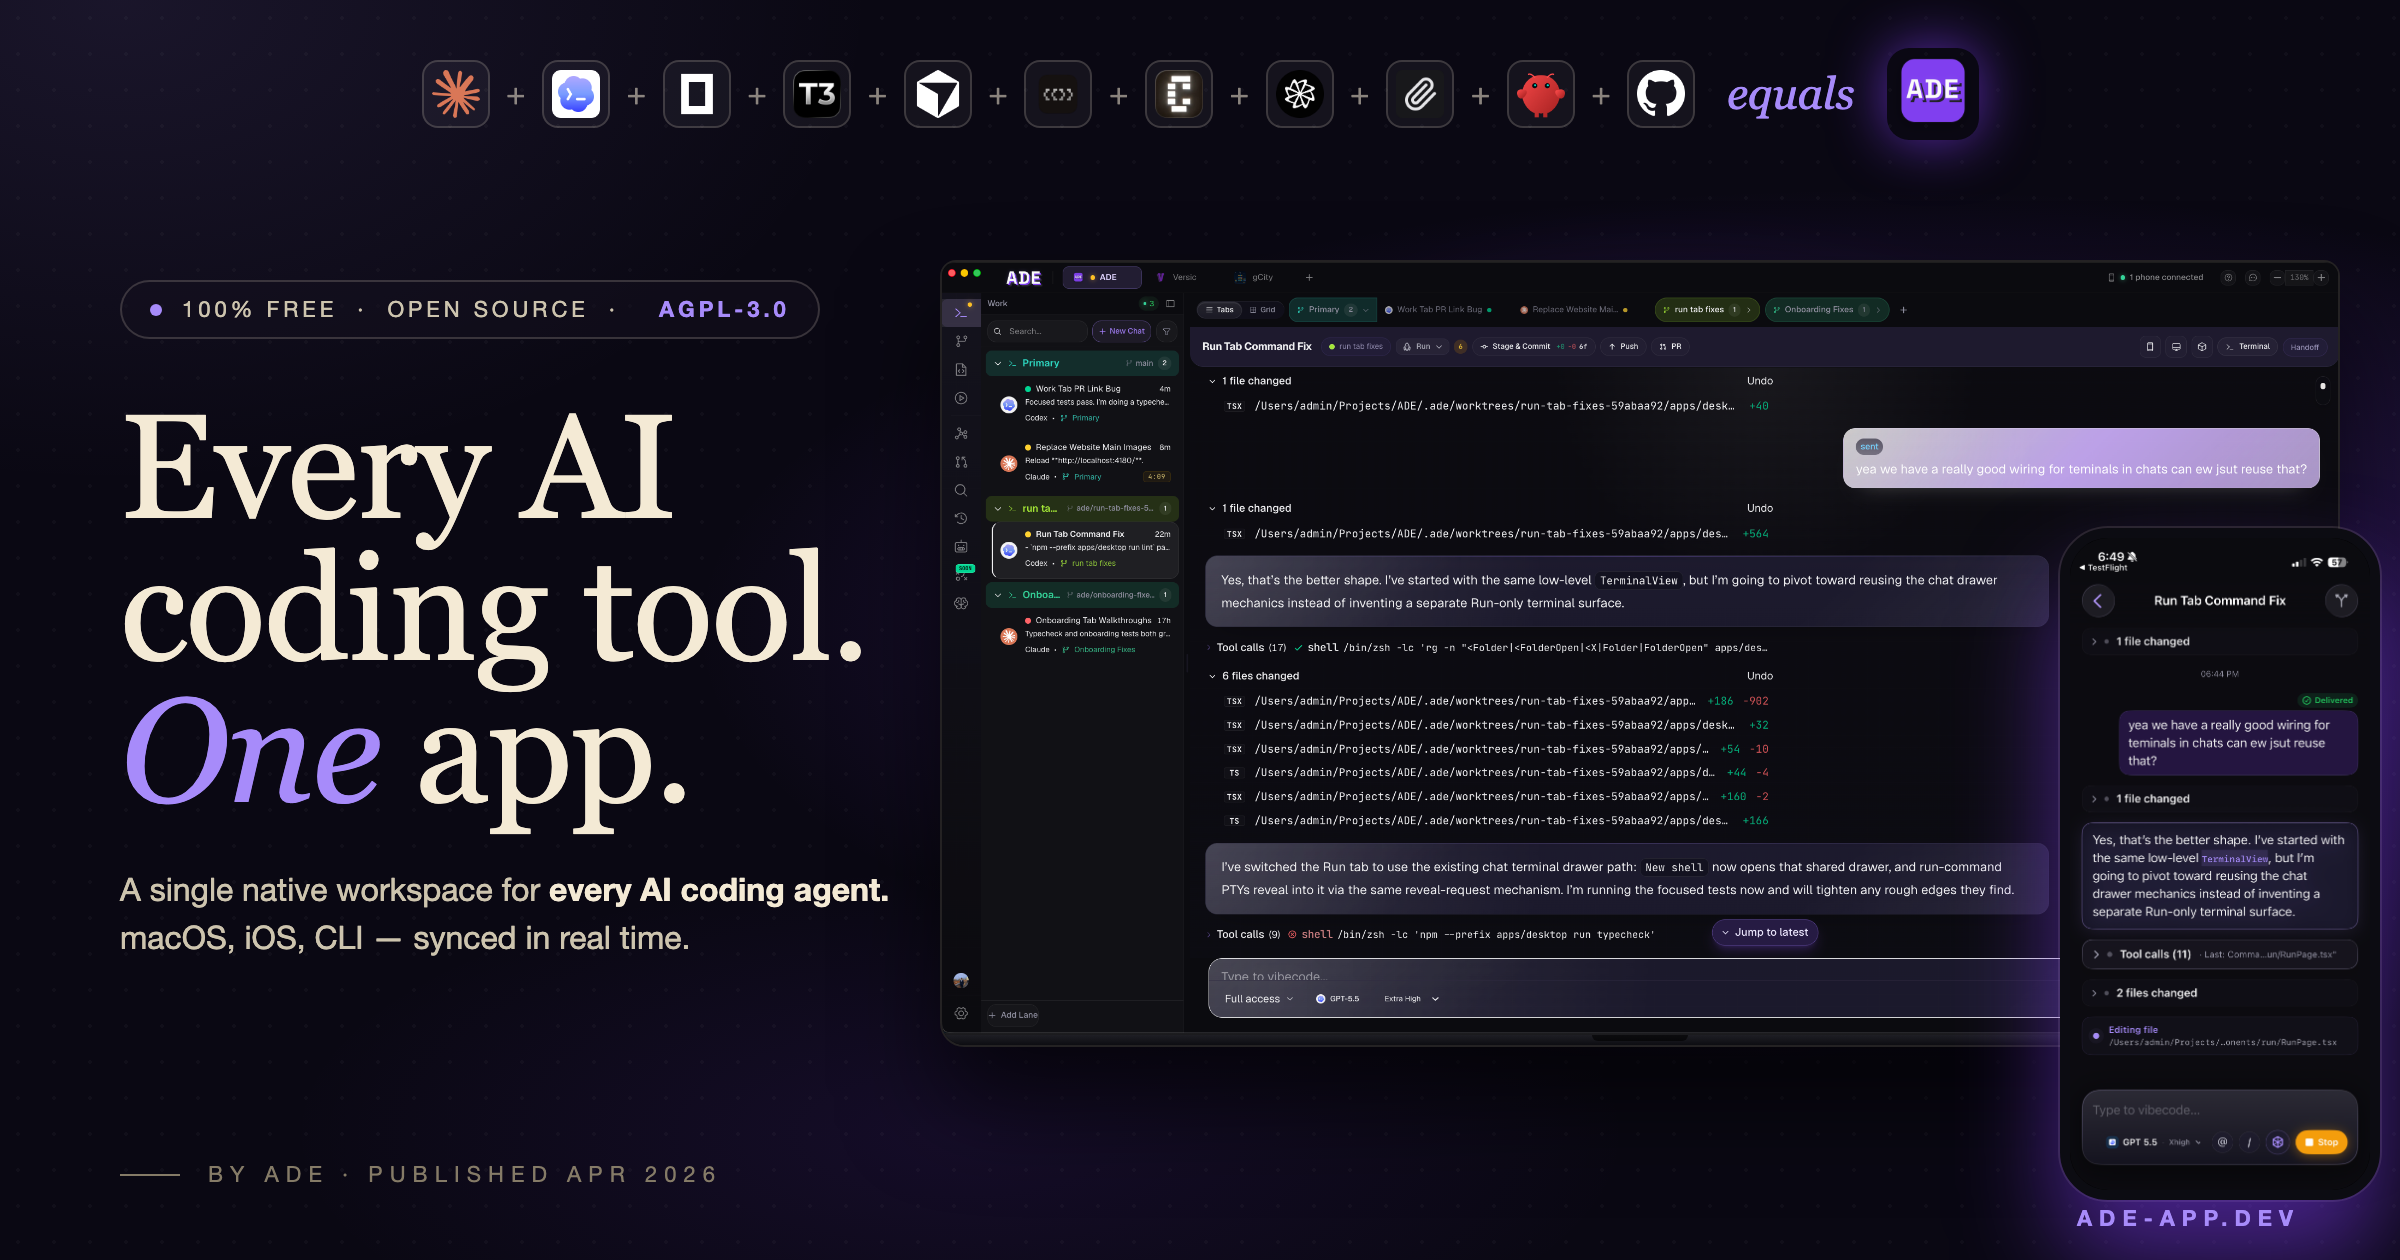
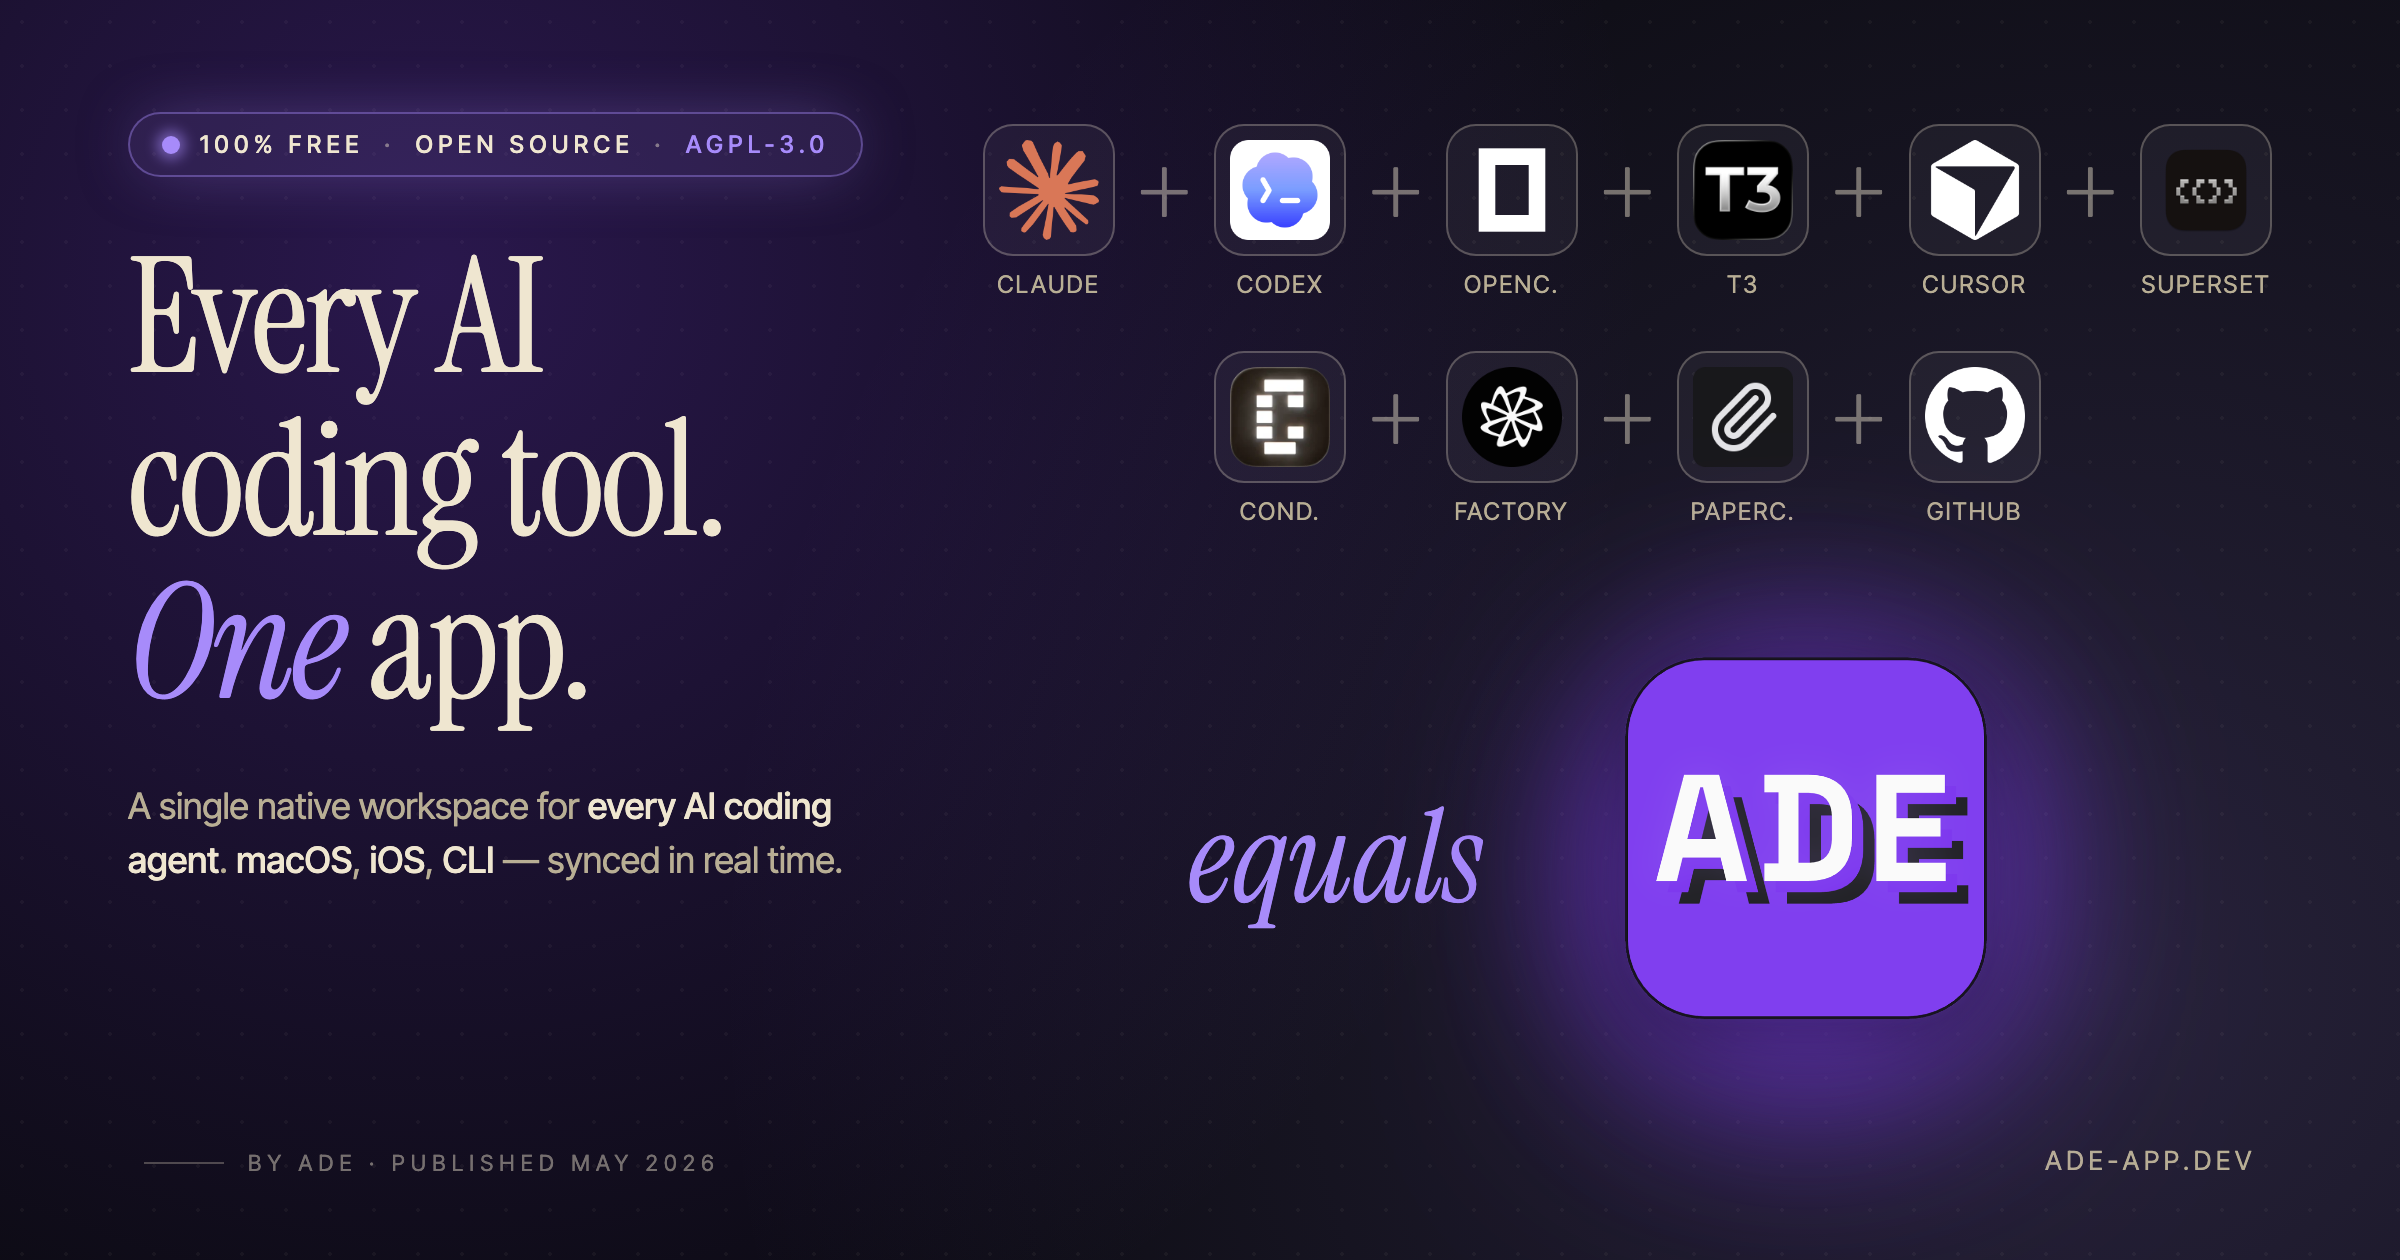
Refs ADE-85: Fix web launch copy and links

diff --git a/apps/web/src/app/pages/DownloadPage.tsx b/apps/web/src/app/pages/DownloadPage.tsx
@@ -1,5 +1,5 @@
 import { useEffect, useMemo, useState } from "react";
-import { Apple, ArrowUpRight, Cpu, Download, Github, Laptop, Monitor, Terminal } from "lucide-react";
+import { Apple, ArrowUpRight, Cpu, Download, Github, Laptop, Monitor, Smartphone, Terminal } from "lucide-react";
 import { Badge } from "../../components/Badge";
 import { Card } from "../../components/Card";
 import { CopyButton } from "../../components/CopyButton";
@@ -12,10 +12,13 @@ import { cn } from "../../lib/cn";
 import { LINKS } from "../../lib/links";
 import { useDocumentTitle } from "../../lib/useDocumentTitle";
 
-type PlatformHint = "mac" | "windows" | "linux" | "unknown";
+type PlatformHint = "mac" | "windows" | "linux" | "ios" | "unknown";
 
 function detectPlatform(): PlatformHint {
   const ua = typeof navigator !== "undefined" ? navigator.userAgent.toLowerCase() : "";
+  const navigatorPlatform = typeof navigator !== "undefined" ? navigator.platform.toLowerCase() : "";
+  const maxTouchPoints = typeof navigator !== "undefined" ? navigator.maxTouchPoints : 0;
+  if (/(iphone|ipad|ipod)/.test(ua) || (navigatorPlatform === "macintel" && maxTouchPoints > 1)) return "ios";
   if (ua.includes("mac os") || ua.includes("macintosh")) return "mac";
   if (ua.includes("windows")) return "windows";
   if (ua.includes("linux")) return "linux";
@@ -48,21 +51,36 @@ export function DownloadPage() {
         title: "macOS",
         icon: <Apple className="h-5 w-5" />,
         note: "Current beta release target: DMG and ZIP from GitHub Releases.",
-        hint: "Recommended on Apple Silicon and Intel."
+        hint: "Recommended on Apple Silicon and Intel.",
+        actionHref: LINKS.releases,
+        actionLabel: "Download from releases"
       },
       {
         key: "windows" as const,
         title: "Windows",
         icon: <Monitor className="h-5 w-5" />,
         note: "Installer builds are not published yet.",
-        hint: "Use the source build path for now."
+        hint: "Use the source build path for now.",
+        actionHref: LINKS.releases,
+        actionLabel: "Check releases"
       },
       {
         key: "linux" as const,
         title: "Linux",
         icon: <Cpu className="h-5 w-5" />,
         note: "AppImage and package builds are not published yet.",
-        hint: "Use the source build path for now."
+        hint: "Use the source build path for now.",
+        actionHref: LINKS.releases,
+        actionLabel: "Check releases"
+      },
+      {
+        key: "ios" as const,
+        title: "iOS",
+        icon: <Smartphone className="h-5 w-5" />,
+        note: "The companion app is in TestFlight while the App Store listing is prepared.",
+        hint: "Use the iOS beta for remote review, approvals, and push state.",
+        actionHref: LINKS.changelogLatest,
+        actionLabel: "View TestFlight notes"
       }
     ],
     []
@@ -100,7 +118,7 @@ export function DownloadPage() {
           </div>
         </Reveal>
 
-        <div className="mt-12 grid gap-6 md:grid-cols-3">
+        <div className="mt-12 grid gap-6 md:grid-cols-2 xl:grid-cols-4">
           {cards.map((c, idx) => {
             const recommended = platform === c.key;
             return (
@@ -127,11 +145,11 @@ export function DownloadPage() {
                         "focus-ring inline-flex w-full items-center justify-center gap-2 rounded-lg border border-border/70 bg-card/70 px-4 py-2 text-sm font-semibold text-fg",
                         "transition-all duration-200 [transition-timing-function:var(--ease-out)] hover:bg-card hover:shadow-glass-sm"
                       )}
-                      href={LINKS.releases}
+                      href={c.actionHref}
                       target="_blank"
                       rel="noreferrer"
                     >
-                      Download from releases <ArrowUpRight className="h-4 w-4" />
+                      {c.actionLabel} <ArrowUpRight className="h-4 w-4" />
                     </a>
                   </div>
                 </Card>

diff --git a/apps/web/public/mockup.html b/apps/web/public/mockup.html
@@ -724,15 +724,15 @@
         <!-- masthead -->
         <header class="masthead">
           <div class="brand">ADE<em>.</em></div>
-          <div class="issue">Vol. 1 · Issue 0 · Apr 2026</div>
+          <div class="issue">Vol. 1 · v1.1.12 · May 2026</div>
           <nav class="nav">
-            <a href="https://www.ade-app.dev/docs">Docs</a>
+            <a href="https://ade-app.dev/docs">Docs</a>
             <a href="https://github.com/arul28/ADE">GitHub</a>
             <a href="https://github.com/arul28/ADE/releases/latest" class="download">Download ↓</a>
           </nav>
         </header>
 
-        <!-- 11 competitors + = ADE -->
+        <!-- 10 competitors + = ADE -->
         <div class="equation">
           <div class="logo-cell">
             <div class="chip"><img src="/images/competitors/claude-code.png" alt="Claude logo" /></div>
@@ -810,7 +810,7 @@
             </div>
             <div class="byline">
               <span class="rule"></span>
-              By ADE · Published Apr 2026
+              By ADE · Published May 2026
             </div>
           </div>
 
@@ -838,7 +838,7 @@
               </div>
             </div>
             <div class="caption">
-              ADE, <em>on desk and in hand</em>. Photographed April 2026 —
+              ADE, <em>on desk and in hand</em>. Photographed May 2026 —
               placeholder screens pending final iOS captures.
             </div>
           </div>

diff --git a/apps/web/api/open.ts b/apps/web/api/open.ts
@@ -118,22 +118,22 @@ function describe(target: OpenTarget): { title: string; description: string } {
   switch (target.kind) {
     case "lane":
       return {
-        title: "Open lane in ADE",
-        description: `Open this ADE lane (${target.laneId.slice(0, 8)}…) on your desktop.`,
+        title: "Open worktree in ADE",
+        description: `Open this ADE worktree (${target.laneId.slice(0, 8)}…) on your desktop.`,
       };
     case "session":
       return {
         title: "Open work session in ADE",
         description: target.laneId
-          ? `Open this ADE work session in lane ${target.laneId.slice(0, 8)}…`
+          ? `Open this ADE work session in worktree ${target.laneId.slice(0, 8)}…`
           : "Open this ADE work session on your desktop.",
       };
     case "branch":
       return {
         title: `${target.repo} · ${target.branch} — Open in ADE`,
         description: target.pr
-          ? `Branch ${target.branch} (PR #${target.pr}) shared via ADE. One click to spin up a lane.`
-          : `Branch ${target.branch} shared via ADE. One click to spin up a lane.`,
+          ? `Branch ${target.branch} (PR #${target.pr}) shared via ADE. One click to open its worktree.`
+          : `Branch ${target.branch} shared via ADE. One click to open its worktree.`,
       };
     case "pr":
       return {

diff --git a/apps/web/src/components/editorial/Chapter.tsx b/apps/web/src/components/editorial/Chapter.tsx
@@ -1,6 +1,7 @@
 import type { ReactNode } from "react";
 import { motion, useReducedMotion } from "framer-motion";
 import { cn } from "../../lib/cn";
+import { EDITORIAL_ISSUE } from "./issue";
 
 /**
  * Cream article chapter scaffold. Includes:
@@ -38,9 +39,9 @@ export function Chapter({
       <div className="mx-auto max-w-[1520px] px-[clamp(20px,3vw,48px)] py-[clamp(24px,3vw,52px)]">
         {/* running head */}
         <div className="mb-6 flex items-baseline justify-between border-b border-[color:var(--color-ink-hairline)] pb-3 text-[11px] uppercase tracking-[0.24em] text-[color:var(--color-ink-muted)]">
-          <span>ADE &middot; April &rsquo;26</span>
+          <span>ADE &middot; {EDITORIAL_ISSUE.shortMonthYear}</span>
           <span className="hidden sm:block">The Agentic Development Environment</span>
-          <span>{`Vol. 1 · v1.1.0 · ${pageNumber}`}</span>
+          <span>{EDITORIAL_ISSUE.volume} &middot; {EDITORIAL_ISSUE.version} &middot; {pageNumber}</span>
         </div>
 
         {/* folio */}
@@ -106,7 +107,7 @@ export function ChapterBody({
 /** Italic byline with short rule. */
 export function Byline({
   author = "By ADE Staff",
-  date = "April 2026",
+  date = EDITORIAL_ISSUE.monthYear,
   tone = "ink",
 }: {
   author?: string;

diff --git a/apps/web/src/components/editorial/FeatureGrid.tsx b/apps/web/src/components/editorial/FeatureGrid.tsx
@@ -1,6 +1,7 @@
 import { motion, useReducedMotion } from "framer-motion";
 import { ArrowUpRight } from "lucide-react";
 import { LINKS } from "../../lib/links";
+import { EDITORIAL_ISSUE } from "./issue";
 
 type Feature = {
   label: string;
@@ -76,9 +77,9 @@ export function FeatureGrid() {
       <div className="mx-auto max-w-[1520px] px-[clamp(20px,3vw,48px)] py-[clamp(44px,5.5vw,84px)]">
         {/* running head */}
         <div className="mb-10 flex items-baseline justify-between border-b border-[color:var(--color-ink-hairline)] pb-4 text-[11px] uppercase tracking-[0.24em] text-[color:var(--color-ink-muted)]">
-          <span>ADE &middot; April &rsquo;26</span>
+          <span>ADE &middot; {EDITORIAL_ISSUE.shortMonthYear}</span>
           <span className="hidden sm:block">Catalog</span>
-          <span>Vol. 1 &middot; v1.1.0 &middot; 32</span>
+          <span>{EDITORIAL_ISSUE.volume} &middot; {EDITORIAL_ISSUE.version} &middot; 32</span>
         </div>
 
         {/* folio */}

diff --git a/apps/web/src/app/pages/HomePage.tsx b/apps/web/src/app/pages/HomePage.tsx
@@ -19,8 +19,9 @@ import { IPhoneFrame } from "../../components/editorial/IPhoneFrame";
 import { FeatureGrid } from "../../components/editorial/FeatureGrid";
 import { IndexPage } from "../../components/editorial/IndexPage";
 import { BackCover } from "../../components/editorial/BackCover";
+import { EDITORIAL_ISSUE } from "../../components/editorial/issue";
 
-const MOBILE_BYLINE_DATE = "April 2026 · iOS 17+";
+const MOBILE_BYLINE_DATE = `${EDITORIAL_ISSUE.monthYear} · iOS 17+`;
 
 function AgentBadge({
   src,
@@ -383,7 +384,7 @@ export function HomePage() {
                 macOS continues on iOS without a refresh.
               </ChapterBody>
               <PullQuote tone="ink">
-                &ldquo;None of the eleven apps we replace have a mobile client.
+                &ldquo;None of the ten apps we replace have a mobile client.
                 We built the one that does.&rdquo;
               </PullQuote>
               <Byline tone="ink" date={MOBILE_BYLINE_DATE} />

diff --git a/apps/web/src/components/editorial/IndexPage.tsx b/apps/web/src/components/editorial/IndexPage.tsx
@@ -1,5 +1,6 @@
 import { motion, useReducedMotion } from "framer-motion";
 import { LINKS } from "../../lib/links";
+import { EDITORIAL_ISSUE } from "./issue";
 
 type Entry = { name: string; page: string; href: string };
 
@@ -50,9 +51,9 @@ export function IndexPage() {
     >
       <div className="mx-auto max-w-[1520px] px-[clamp(20px,3vw,48px)] py-[clamp(44px,5.5vw,84px)]">
         <div className="mb-10 flex items-baseline justify-between border-b border-[color:var(--color-ink-hairline)] pb-4 text-[11px] uppercase tracking-[0.24em] text-[color:var(--color-ink-muted)]">
-          <span>ADE &middot; April &rsquo;26</span>
+          <span>ADE &middot; {EDITORIAL_ISSUE.shortMonthYear}</span>
           <span className="hidden sm:block">Back matter</span>
-          <span>Vol. 1 &middot; v1.1.0 &middot; 34</span>
+          <span>{EDITORIAL_ISSUE.volume} &middot; {EDITORIAL_ISSUE.version} &middot; 34</span>
         </div>
 
         <motion.h2

diff --git a/apps/web/src/app/pages/OpenPage.tsx b/apps/web/src/app/pages/OpenPage.tsx
@@ -96,13 +96,13 @@ function describeTarget(target: OpenTarget): { title: string; summary: string } 
   switch (target.kind) {
     case "lane":
       return {
-        title: "Open lane in ADE",
-        summary: `Lane ${target.laneId.slice(0, 8)}…`,
+        title: "Open worktree in ADE",
+        summary: `Worktree ${target.laneId.slice(0, 8)}…`,
       };
     case "session":
       return {
         title: "Open work session in ADE",
-        summary: target.laneId ? `Session ${target.sessionId} · lane ${target.laneId.slice(0, 8)}…` : `Session ${target.sessionId}`,
+        summary: target.laneId ? `Session ${target.sessionId} · worktree ${target.laneId.slice(0, 8)}…` : `Session ${target.sessionId}`,
       };
     case "branch":
       return {

diff --git a/apps/web/src/components/editorial/DeviceComposition.tsx b/apps/web/src/components/editorial/DeviceComposition.tsx
@@ -1,4 +1,5 @@
 import { motion, useReducedMotion } from "framer-motion";
+import { EDITORIAL_ISSUE } from "./issue";
 
 /**
  * Right column of the fold — MacBook + iPhone on violet halo + Fig. 1 caption.
@@ -82,7 +83,7 @@ export function DeviceComposition() {
         <span className="mr-[10px] inline-block align-middle font-sans text-[10px] uppercase tracking-[0.22em] not-italic text-[color:var(--color-violet-bright)]">
           Fig. 1
         </span>
-        ADE, <em className="text-[color:var(--color-cream)]">on desk and in hand</em>. Photographed April 2026.
+        ADE, <em className="text-[color:var(--color-cream)]">on desk and in hand</em>. Photographed {EDITORIAL_ISSUE.monthYear}.
       </div>
     </motion.div>
   );

diff --git a/apps/web/src/components/editorial/Lede.tsx b/apps/web/src/components/editorial/Lede.tsx
@@ -1,6 +1,7 @@
 import { motion, useReducedMotion } from "framer-motion";
 import { ArrowUpRight, Download, Github, BookOpen } from "lucide-react";
 import { LINKS } from "../../lib/links";
+import { EDITORIAL_ISSUE } from "./issue";
 
 /**
  * Left column of the fold — eyebrow, serif display headline,
@@ -133,7 +134,7 @@ export function Lede() {
         className="mt-6 flex items-center gap-3 text-[10.5px] uppercase tracking-[0.22em] text-[color:var(--color-cream-faint)]"
       >
         <span className="inline-block h-px w-10 bg-[color:var(--color-hairline-strong)]" />
-        By ADE &middot; Published Apr 2026
+        By ADE &middot; Published {EDITORIAL_ISSUE.monthYear}
       </motion.div>
     </motion.div>
   );

diff --git a/apps/web/src/components/SiteFooter.tsx b/apps/web/src/components/SiteFooter.tsx
@@ -76,7 +76,12 @@ export function SiteFooter() {
         </div>
 
         <div className="mt-10 flex flex-col items-start justify-between gap-3 border-t border-border/70 pt-6 text-xs text-muted-fg sm:flex-row sm:items-center">
-          <div>&copy; {year} ADE. MIT License.</div>
+          <div>
+            &copy; {year} ADE.{" "}
+            <a className="focus-ring rounded-md hover:text-fg" href={`${LINKS.github}/blob/main/LICENSE`} target="_blank" rel="noreferrer">
+              AGPL-3.0 License.
+            </a>
+          </div>
           <div className="flex items-center gap-4">
             <Link className="focus-ring rounded-md hover:text-fg" to="/privacy">
               Privacy

diff --git a/apps/web/src/components/editorial/Masthead.tsx b/apps/web/src/components/editorial/Masthead.tsx
@@ -1,4 +1,5 @@
 import { LINKS } from "../../lib/links";
+import { EDITORIAL_ISSUE } from "./issue";
 
 /**
  * Magazine masthead — top bar on the dark cover.
@@ -19,7 +20,7 @@ export function Masthead() {
 
         <div className="hidden flex-1 text-center md:block">
           <span className="text-[11px] uppercase tracking-[0.22em] text-[color:var(--color-cream-muted)]">
-            Vol. 1 &middot; v1.1.0 &middot; Apr 2026
+            {EDITORIAL_ISSUE.volume} &middot; {EDITORIAL_ISSUE.version} &middot; {EDITORIAL_ISSUE.monthYear}
           </span>
         </div>
 
